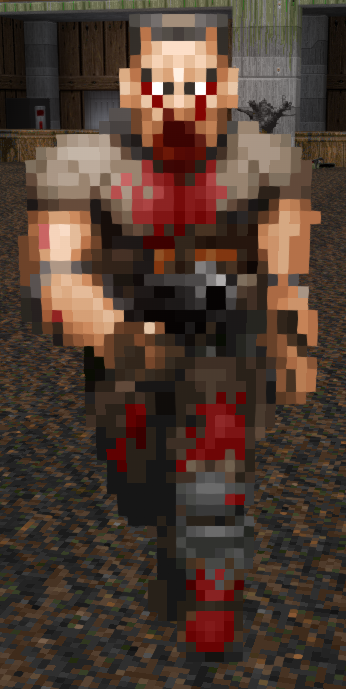
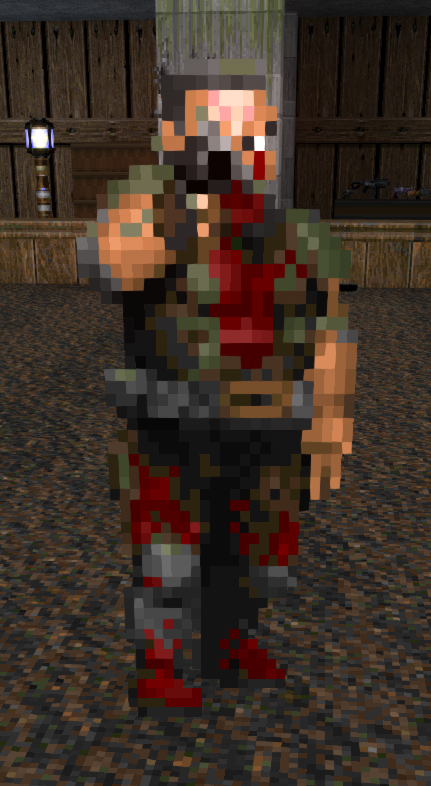
Fix readme, screenshots

diff --git a/filter/doom.id/README.md b/filter/doom.id/README.md
@@ -40,7 +40,7 @@ _Credits: Project Malice Team, id Software_
 ##### Pistol Zombieman
 _Requires [HDest Re-Enforcements](https://github.com/FDAapproved/HDest-Re-Enforcements)_
 
-The Pistol Zombieman has been replaced with a UAC Office employee, tweaked .
+The Pistol Zombieman has been replaced with a UAC Office employee, tweaked a bit to match the spooky vibes of the rest of the zombie variants.
 
 ![pistol-zombieman](../../screenshots/pistol-zombieman.png)  
 _Credits: Solmyr, Scalliano, Ghostbusters Doom Team, id Software_
@@ -48,18 +48,18 @@ _Credits: Solmyr, Scalliano, Ghostbusters Doom Team, id Software_
 ##### 10mm Pistol Zombieman
 _Requires [Radtech Zombies](https://github.com/swampyrad/RadTechZombies)_
 
-The Pistol Zombieman has been replaced with a recolored version to give them a darker, spookier appearance.
+The 10mm Pistol Zombieman has been replaced with a recolored version to give them a darker, spookier appearance.
 
 ![10mm-pistol-zombieman](../../screenshots/10mm-pistol-zombieman.png)  
 _Credits: Project Malice Team, id Software_
 
-<!-- ##### Sig-Cow Zombieman
+##### Sig-Cow Zombieman
 _Requires [Radtech Zombies](https://github.com/swampyrad/RadTechZombies)_
 
 The Sig-cow Zombieman has been replaced with a recolored version to give them a darker, spookier appearance.
 
 ![10mm-rifle-zombieman](../../screenshots/10mm-rifle-zombieman.png)  
-_Credits: Project Malice Team, Skelegant, David G., id Software_ -->
+_Credits: Project Malice Team, Skelegant, David G., id Software_
 
 <!-- ##### Hunter Shotgun Zombieman
 
